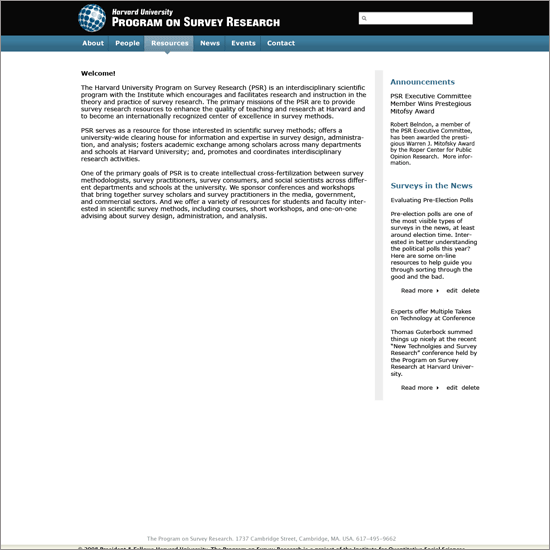
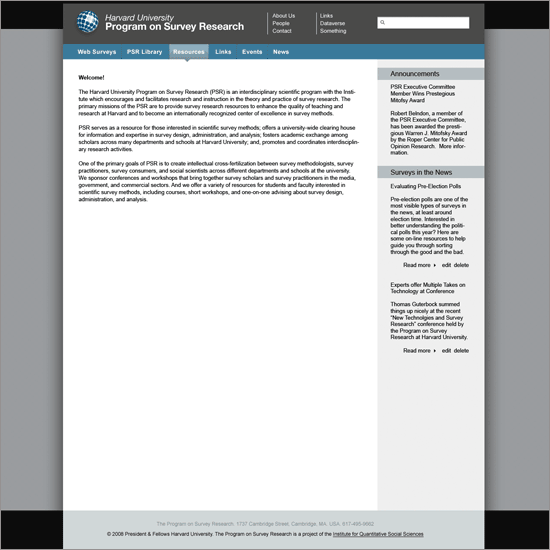
new psr

diff --git a/sites/all/themes/custom/psr/psr.css b/sites/all/themes/custom/psr/psr.css
@@ -1,201 +1,112 @@
 body {
-  background-color: #f7f7e8;
-  font:14px/17px verdana, sans-serif;
-  color: #020202;
+  background:#0c0c0c;
   }
 
-/*TYPOGRAPHY*/
-
-#header h2, #header p {
-  display:none;
-  }
-
-#header h1 {
-  width:454px;
-  height:63px;
-  background:url(images/logo.png) no-repeat;
-  margin-top:6px;
-  text-indent: -999em;
-  }
-
-#header h1 a, #header h1 a:visited {
-  width:454px;
-  height:63px;
-  display:block;
-  }
-
-h2.title,h3.title {
-  font-size: 17px;
-  margin-bottom: 17px;
-  color: #516d7c
-  }
-
-h3.title {
-  font-size: 15px;
-  margin-bottom: 15px;
-  }
-
-/* LAYOUT */
-
-#wrapper {
-  background: url(images/header.png) repeat-x #fff;
-  border-bottom: 10px solid #ddd;
-  }
-
-#container {
-  width: 904px;
-  margin: 0 auto;
+#header-wrapper, #navbar {
+  background: transparent;
   }
 
 #header-wrapper {
-  height:77px;
+  margin-top: 10px;
   }
 
-#sidebar-right {
-  padding-right: 0;
-  padding-left: 9px;
-  margin-right: -231px;
-  }
-
-#sidebar-left {
-  width:140px;
-  padding-left: 0;
-  padding-right: 9px;
-  right: 171px;
-  }
-
-#content-main {
-  border: 1px dotted #94998B;
-  border-top: none;
-  border-bottom: none;
-  padding-left: 10px;
-  padding-right:10px;
-  }
-
-.sidebar-right #content-main {
-  border-left: none;
-  }
-
-.sidebar-left #content-main {
-  border-right: none;
-  }
-
-#content-wrapper {
-  padding-left: 149px;
-  padding-right: 231px;
-  }
-
-
-/*header */
-
-
-#header-main {
-  padding:0;
-  }
-
-#header-right {
-  width: 256px;
-  padding: 0;
-  margin-right: -256px;
-  }
-
-#header-wrapper {
-  padding-left: 220px;
-  padding-right: 256px;
-  }
-
-#header-left {
-  right:220px;
-  }
-
-
-/* NAV BAR */
-
-#navbar, #navbar li {
+#navbar {
   height: 43px;
   }
 
-#navbar li {
-  line-height: 36px;
-  font-size: 14px;
-  letter-spacing: .5px;
-  float:left;
+#sidebar-left {
+  background:#f6f7d7;
+  }
+
+#sidebar-right {
+  background:#efefef;
+  }
+
+#sidebar-left h3 {
+  background: #e4e8bd;
+  }
+
+#sidebar-right h3 {
+  background: #b7bec1;
   }
 
 #navbar li a, #navbar li a:visited {
-  color: #fff;
-  padding: 0 17px;
-  display:block;
-  border-right: 1px solid #2c5e76;
-  height: 36px;
-  font-weight: bold;
-  }
-
-#navbar li.last {
   border:none;
+  color: #fff;
+  display:block;
+  height: 43px;
+  line-height: 36px;
   }
 
-#navbar li.active-trail {
-  background: url(images/nav-pointer.png) no-repeat 50% 100%;
-  }
-
-#navbar li.active-trail a {
-  background: url(images/nav-over.png) repeat-x 0 0;
-  }
-
-#navbar li a:hover {
-  color:#fcfd8b;
-  }
-
-#navbar li a.active:hover {
-  color:#fff;
-  }
-
-/* SEARCH */
-
-#header #search-form {
-  margin-top: 26px;
-  padding-bottom: 0;
-  }
-
-#header #search-form .container-inline {
-  background: url(images/search.png) no-repeat 0 0 #fff;
-  width: 256px;
-  padding:0;
-  height:28px;
-  }
-
-#header #search-form input#edit-submit,
-#header #search-form input#edit-submit-1,
-#header #search-form input.form-submit {
-  float: left;
-  margin: 0;
-  height:28px;
-  width: 28px;
- }
-
-#header #search-form #edit-keys-wrapper,
-#header #search-form edit-keys-1-wrapper,
-#header #search-form input#edit-submit-1,
-#header #search-form input#edit-submit-1 {
-  float:right;
-  width: 225px;
-  margin: 0;
-  height: 22px;
-  padding:3px 3px 3px 0;
+#navbar li.last a {
   border: none;
   }
 
-#header #search-form #edit-keys,
-#header #search-form #edit-keys-1 {
-  border:none;
-  padding:0;
-  height: 100%;
+#navbar li a:hover,
+#navbar li a.active,
+#navbar li.active-trail a,
+#navbar li.active-trail a:hover {
+  background: url(images/nav-over.png) 50% 100% transparent;
+  color: #fff;
   }
 
-/* FOOTER */
+#navbar li a:hover {
+  background-position: 0 100%;
+  color: #000;
+  }
+
+#content-wrapper {
+  position: relative;
+  top: -7px;
+  margin-bottom: -7px;
+  }
+
+#container {
+  background-image:url(images/bg.png);
+  }
+
+#header {
+  background-image:url(images/header.png);
+  }
 
 #footer {
-  padding-bottom: 30px;
-  margin-bottom: -100px;
+  background-image:url(images/footer.png);
+  }
+
+#footer-inner {
+  background: transparent;
+  }
+
+#header h1 a, #header h1 a:visited, #header #block-vsite_menus-1 li a, #header #block-vsite_menus-1 li a:visited {
+  color:#fff;
+  }
+
+#header #block-vsite_menus-1 li {
+  border-color: #ebf1ff;
+  }
+
+#wrapper {
+  background: url(images/wrapper.png) 0 0 repeat-x #9a9c9f;
+  }
+
+#wrapper-inner {
+  background: url(images/wrapper-bottom.png) 0 100% repeat-x #9a9c9f;
+  }
+
+#wrapper-inner {
+  background-position: 0 100%;
+  background-color:transparent;
+  }
+
+#header h1 {
+  width: 405px;
+  height:63px;
+  text-indent: -999em;
+  background: url(images/logo.png) 0 0 no-repeat #4a4a4a;
+  }
+
+#header h1 a, #header h1 a:visited {
+  display:block;
+  width: 405px;
+  height:63px;
   }

diff --git a/sites/all/themes/custom/psr/psr-ie.css b/sites/all/themes/custom/psr/psr-ie.css
@@ -1,24 +1,12 @@
-body.header-left-main-right #header-left {
-  left: 256px;
-  }
-
-body.header-left-main #header-left {
-  left: -20px !important;
+#sidebar-left {
+	left: 221px;
 	}
 
-body.two-sidebars #sidebar-left {
-  left: 210px;
+#header-left {
+  left: 70px;
   }
 
-#block-vsite_menus-0 ul.menu li a {
-  height: 1%;
-  }
-
-body.two-sidebars #sidebar-left, body.sidebar-left #sidebar-left, body.two-sidebars #sidebar-right, body.sidebar-right #sidebar-right {
-  right: 0;
-  left: 0;
-  }
-
-#content-wrapper, #sidebar-left h3, #sidebar-right h3 {
-  _zoom:1;
+#container {
+  background-position: 1px 0;
+  _background-position: 11px 0;
   }
